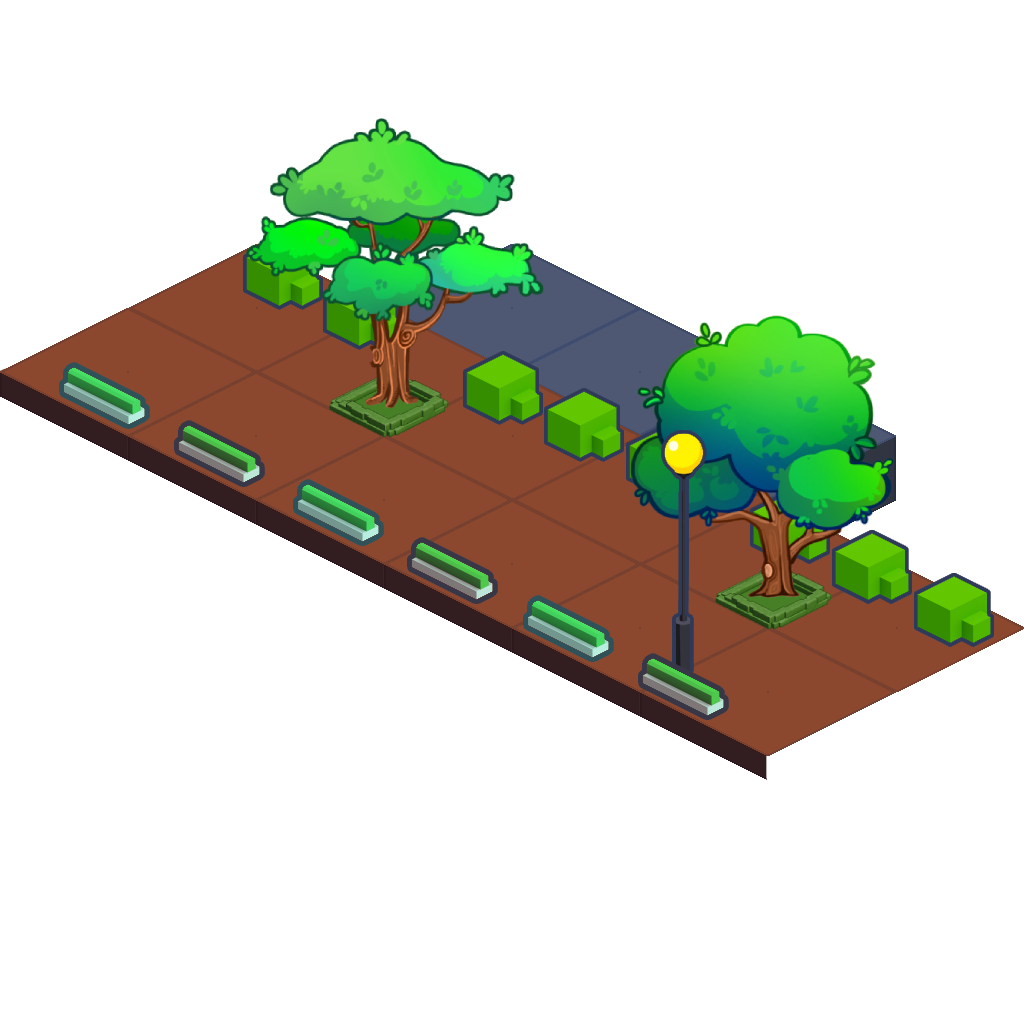
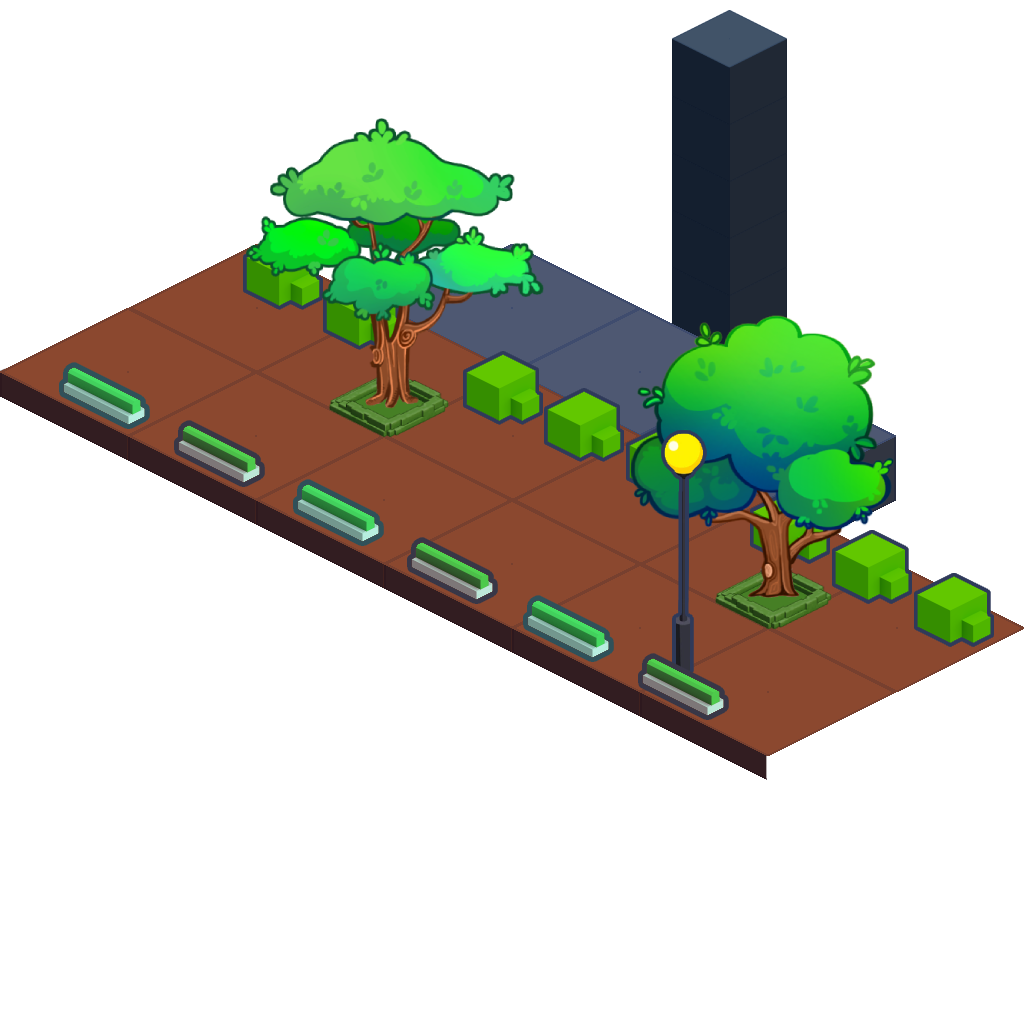
road side pillars in the bottom added

Changed region(s): [[0.6562, 0.0, 0.7812, 0.3438]]

diff --git a/src/scenes/GamePlayScene.ts b/src/scenes/GamePlayScene.ts
@@ -36,6 +36,7 @@ import { ZombieBoss } from "../objects/ZombieBoss";
 import { ZombieBossRocketBlock } from "../objects/ZombieBossRocketBlock";
 import { SoundTemplate } from "../core/SoundTemplate";
 import { MessageBubble } from "../controls/MessageBubble";
+import { RoadSideWalkPillar } from "../objects/RoadSideWalkPillar";
 
 
 export class GamePlayScene extends Container implements IScene {
@@ -77,7 +78,7 @@ export class GamePlayScene extends Container implements IScene {
 	private powerUpBar: HealthBar;
 	private soundPollutionBar: HealthBar;
 
-	private stageColors: number[] = [0x1e2a36, 0x4187ab];
+	private stageColors: number[] = [/*0x1e2a36,*/ 0x4187ab];
 	private stageColor: Graphics;
 
 	private behindBackIcon: Texture;
@@ -799,6 +800,80 @@ export class GamePlayScene extends Container implements IScene {
 				gameObject.moveDownRight();
 
 				if (gameObject.x - (this.sideWalkWidth + 50) > Constants.DEFAULT_GAME_VIEW_WIDTH || gameObject.y - (this.sideWalkWidth + 50) > Constants.DEFAULT_GAME_VIEW_HEIGHT) {
+					gameObject.disableRendering();
+
+				}
+			});
+		}
+	}
+
+	//#endregion
+
+	//#region SideWalkPillars
+
+	private sideWalkPillarXyAdjustment: number = 192;
+
+	private sideWalkPillarWidth: number = 750;
+	private sideWalkPillarHeight: number = 750;
+
+	private sideWalkPillarBottomGameObjects: Array<RoadSideWalkPillar> = [];
+
+	private readonly sideWalkPillarPopDelayDefault: number = 93 / Constants.DEFAULT_CONSTRUCT_DELTA;
+	private sideWalkPillarPopDelayBottom: number = 16;
+
+	private spawnSideWalkPillarsBottom() {
+
+		for (let j = 0; j < 5; j++) {
+
+			const gameObject: RoadSideWalkPillar = new RoadSideWalkPillar(Constants.DEFAULT_CONSTRUCT_SPEED);
+			gameObject.disableRendering();
+
+			for (let i = 0; i < 5; i++) {
+
+				const sprite: GameObjectSprite = new GameObjectSprite(Constants.getRandomTexture(ConstructType.ROAD_SIDE_WALK_BOTTOM_PILLARS));
+
+				sprite.x = this.sideWalkPillarWidth * i - (this.sideWalkPillarXyAdjustment * i);
+				sprite.y = (this.sideWalkPillarHeight / 2) * i - ((this.sideWalkPillarXyAdjustment / 2) * i);
+
+				sprite.width = this.sideWalkPillarWidth;
+				sprite.height = this.sideWalkPillarHeight;
+
+				gameObject.addChild(sprite);
+			}
+
+			this.sideWalkPillarBottomGameObjects.push(gameObject);
+			this.sceneContainer.addChild(gameObject);
+		}
+	}
+
+	private generateSideWalkPillarsBottom() {
+
+		this.sideWalkPillarPopDelayBottom -= 0.1;
+
+		if (this.sideWalkPillarPopDelayBottom < 0) {
+
+			var gameObject = this.sideWalkPillarBottomGameObjects.find(x => x.isAnimating == false);
+
+			if (gameObject) {
+				//gameObject.reset();
+				gameObject.x = gameObject.width * -1;
+				gameObject.y = -1230;
+				gameObject.enableRendering();
+				this.sideWalkPillarPopDelayBottom = this.sideWalkPillarPopDelayDefault;
+			}
+		}
+	}
+
+	private animateSideWalkPillarsBottom() {
+
+		var animatingSideWalkPillars = this.sideWalkPillarBottomGameObjects.filter(x => x.isAnimating == true);
+
+		if (animatingSideWalkPillars) {
+
+			animatingSideWalkPillars.forEach(gameObject => {
+				gameObject.moveDownRight();
+
+				if (gameObject.x - (this.sideWalkPillarWidth + 50) > Constants.DEFAULT_GAME_VIEW_WIDTH || gameObject.y - (this.sideWalkPillarWidth + 50) > Constants.DEFAULT_GAME_VIEW_HEIGHT) {
 					gameObject.disableRendering();
 
 				}
@@ -3985,9 +4060,9 @@ export class GamePlayScene extends Container implements IScene {
 
 		this.spawnHonks();
 		this.spawnVehicleBossRockets();
-
-		this.spawnSmokeExplosions();
+				
 		this.spawnSideWalksBottom();
+		this.spawnSmokeExplosions();
 
 		this.spawnPlayerGroundBombs();
 		this.spawnPlayerRockets();
@@ -4015,6 +4090,8 @@ export class GamePlayScene extends Container implements IScene {
 		this.spawnPowerUpPickups();
 
 		this.spawnMessageBubbles();
+
+		this.spawnSideWalkPillarsBottom();
 	}
 
 	private generateGameObjects() {
@@ -4022,8 +4099,6 @@ export class GamePlayScene extends Container implements IScene {
 		if (!this.anyInAirBossExists() && !this.isBossDeathExploding()) {
 			this.generateRoadMarks();
 			this.generateSideWalksTop();
-			//this.generateTreesTop();
-			//this.generateLampsTop();
 		}
 
 		this.generateVehicleEnemys();
@@ -4050,8 +4125,7 @@ export class GamePlayScene extends Container implements IScene {
 
 		if (!this.anyInAirBossExists() && !this.isBossDeathExploding()) {
 			this.generateSideWalksBottom();
-			//this.generateTreesBottom();
-			//this.generateLampsBottom();
+			this.generateSideWalkPillarsBottom();
 		}
 
 		this.generateBossDeathExplosions();
@@ -4066,8 +4140,6 @@ export class GamePlayScene extends Container implements IScene {
 		if (!this.anyInAirBossExists() && !this.isBossDeathExploding()) {
 			this.animateRoadMarks();
 			this.animateSideWalksTop();
-			//this.animateTreesTop();			
-			//this.animateLampsTop();
 		}
 
 		this.animateVehicleEnemys();
@@ -4104,7 +4176,7 @@ export class GamePlayScene extends Container implements IScene {
 
 		if (!this.anyInAirBossExists() && !this.isBossDeathExploding()) {
 			this.animateSideWalksBottom();
-			//this.animateTreesBottom();
+			this.animateSideWalkPillarsBottom();
 		}
 
 		//this.animateClouds();

diff --git a/src/Constants.ts b/src/Constants.ts
@@ -106,12 +106,7 @@ export enum ConstructType {
 	ROAD_MARK,
 	ROAD_SIDE_WALK_TOP,
 	ROAD_SIDE_WALK_BOTTOM,
-
-	ROAD_SIDE_TREE,
-	ROAD_SIDE_HEDGE,
-	ROAD_SIDE_LAMP,
-	ROAD_SIDE_LIGHT_BILLBOARD,
-	ROAD_SIDE_BILLBOARD,
+	ROAD_SIDE_WALK_BOTTOM_PILLARS,
 
 	HONK,
 
@@ -255,22 +250,9 @@ export abstract class Constants {
 
 		new ConstructTemplate(ConstructType.ROAD_MARK, this.imagessDirectory + "road_marks.png"),
 
-		new ConstructTemplate(ConstructType.ROAD_SIDE_TREE, this.imagessDirectory + "tree_1.png"),
-		new ConstructTemplate(ConstructType.ROAD_SIDE_TREE, this.imagessDirectory + "tree_2.png"),
-		new ConstructTemplate(ConstructType.ROAD_SIDE_TREE, this.imagessDirectory + "tree_3.png"),
-
 		new ConstructTemplate(ConstructType.ROAD_SIDE_WALK_TOP, this.imagessDirectory + "road_side_walk_top_1.png"),
 		new ConstructTemplate(ConstructType.ROAD_SIDE_WALK_BOTTOM, this.imagessDirectory + "road_side_walk_bottom_1.png"),
-
-		new ConstructTemplate(ConstructType.ROAD_SIDE_HEDGE, this.imagessDirectory + "road_side_hedge_1.png"),
-
-		new ConstructTemplate(ConstructType.ROAD_SIDE_BILLBOARD, this.imagessDirectory + "billboard_1.png"),
-		new ConstructTemplate(ConstructType.ROAD_SIDE_BILLBOARD, this.imagessDirectory + "billboard_2.png"),
-		new ConstructTemplate(ConstructType.ROAD_SIDE_BILLBOARD, this.imagessDirectory + "billboard_3.png"),
-
-		new ConstructTemplate(ConstructType.ROAD_SIDE_LIGHT_BILLBOARD, this.imagessDirectory + "road_side_light_billboard_1.png"),
-		new ConstructTemplate(ConstructType.ROAD_SIDE_LIGHT_BILLBOARD, this.imagessDirectory + "road_side_light_billboard_2.png"),
-		new ConstructTemplate(ConstructType.ROAD_SIDE_LIGHT_BILLBOARD, this.imagessDirectory + "road_side_light_billboard_3.png"),		
+		new ConstructTemplate(ConstructType.ROAD_SIDE_WALK_BOTTOM_PILLARS, this.imagessDirectory + "road_side_walk_bottom_pillars_1.png"),
 
 		new ConstructTemplate(ConstructType.CLOUD, this.imagessDirectory + "cloud_1.png"),
 		new ConstructTemplate(ConstructType.CLOUD, this.imagessDirectory + "cloud_2.png"),

diff --git a/src/objects/RoadSideWalkPillar.ts b/src/objects/RoadSideWalkPillar.ts
@@ -2,14 +2,13 @@
 import { GameObjectContainer } from '../core/GameObjectContainer';
 
 
-export class RoadSideWalk extends GameObjectContainer {
+export class RoadSideWalkPillar extends GameObjectContainer {
 
     constructor(speed: number) {
         super(speed);
     }
 
     reset() {
-        this.setTexture(Constants.getRandomTexture(ConstructType.ROAD_SIDE_WALK_TOP));
+        this.setTexture(Constants.getRandomTexture(ConstructType.ROAD_SIDE_WALK_BOTTOM_PILLARS));
     }
 }
-

diff --git a/src/assets.ts b/src/assets.ts
@@ -101,6 +101,7 @@ export const manifest: ResolverManifest = {
 
 				"road_side_walk_top_1": "./images/road_side_walk_top_1.png",
 				"road_side_walk_bottom_1": "./images/road_side_walk_bottom_1.png",
+				"road_side_walk_bottom_pillars_1": "./images/road_side_walk_bottom_pillars_1.png",
 
 				"ufo_enemy_1": "./images/ufo_enemy_1.png",
 				"ufo_enemy_2": "./images/ufo_enemy_2.png",
